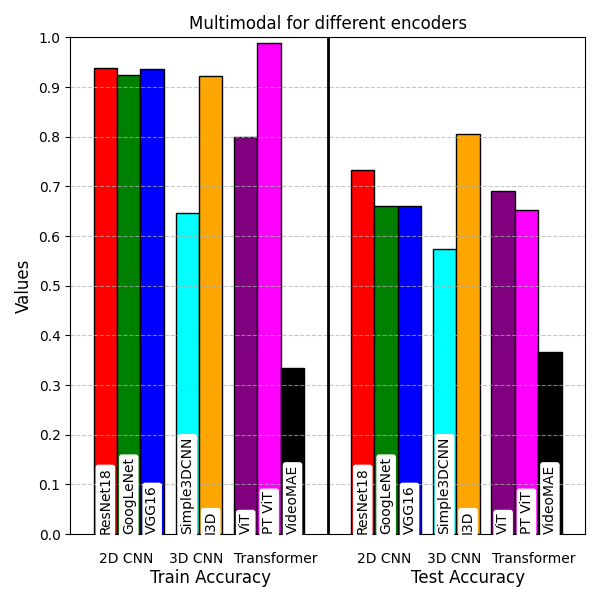
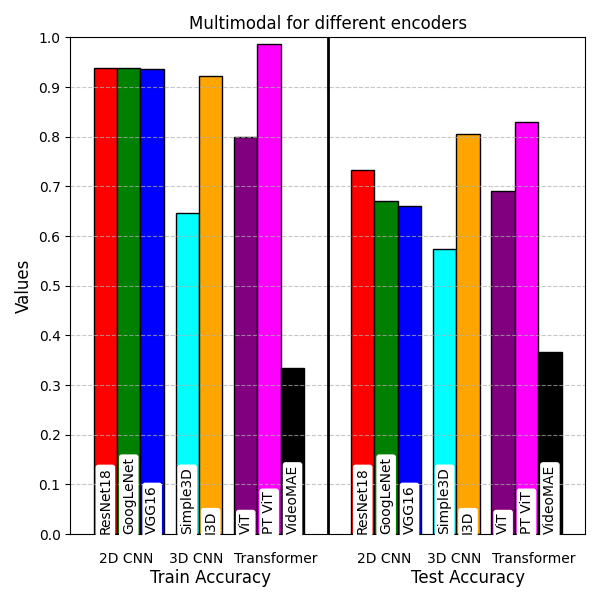
Update barplots

diff --git a/plots/barplot_unimodal.py b/plots/barplot_unimodal.py
@@ -9,7 +9,7 @@ group_labels = ['2D CNN', '3D CNN', 'Transformer']
 # Specific encoders for each type
 encoders = [
     ['ResNet18', 'GoogLeNet', 'VGG16'],
-    ['Simple3DCNN', 'I3D', 'Ablated I3D'],
+    ['Simple3D', 'Ablated Simple3D', 'I3D', 'Ablated I3D'],
     ['ViT', 'PT ViT', 'VideoMAE']
 ]
 
@@ -18,26 +18,28 @@ encoders = [
 # Audio
 data_audio = {
     'ResNet18': [0.9848, 0.6182],
-    'GoogLeNet': [0.907, 0.619],
+    'GoogLeNet': [0.9344, 0.6244],
     'VGG16': [0.9113, 0.5962],
-    'Simple3DCNN': [0.519, 0.514],
+    'Simple3D': [0.519, 0.514],
+    'Ablated Simple3D': [0, 0.354],
     'I3D': [0.623, 0.605],
     'Ablated I3D' : [0, 0.448],
     'ViT': [0.4710, 0.4401],
-    'PT ViT': [0.1664, 0.1644],
+    'PT ViT': [0.9846, 0.6231],
     'VideoMAE': [0.344 , 0.372]
 }
 
 # Vision
 data_vision = {
     'ResNet18': [0.9848, 0.6815],
-    'GoogLeNet': [0.866, 0.566],
+    'GoogLeNet': [0.9275, 0.6742],
     'VGG16': [0.9404, 0.6765],
-    'Simple3DCNN': [0.546, 0.462],
+    'Simple3D': [0.546, 0.462],
+    'Ablated Simple3D': [0, 0.298],
     'I3D': [0.878, 0.831],
     'Ablated I3D' : [0, 0.540],
     'ViT': [0.7612, 0.5536],
-    'PT ViT': [0.9962, 0.6749],
+    'PT ViT': [0.9857, 0.6895],
     'VideoMAE': [0.170, 0.188]
 }
 
@@ -50,7 +52,7 @@ else:
     exit(1)
 
 # colors = ['#FF9999', '#99CCFF', '#99FF99', '#FFCC99', '#FF99CC', '#CCFF99', '#99FFFF']  # Colors for each encoder
-colors = ['red', 'green', 'blue', 'cyan', 'orange', 'yellow', 'purple', 'magenta', 'black']  # Colors for each encoder
+colors = ['red', 'green', 'blue', 'cyan', 'teal', 'orange', 'yellow', 'purple', 'magenta', 'black']  # Colors for each encoder
 # hatches = ['/', '\\', 'o', 'x']  # Different hatches for each metric
 
 # Plotting
@@ -59,7 +61,7 @@ fig, ax = plt.subplots(figsize=(6, 6))
 metric_group_width = 0.8
 bar_width = metric_group_width / (len(encoders[0]) + len(encoders[1]) + len(encoders[2]) + 1)
 x = np.arange(len(metrics_labels)) * (len(encoders[0]) + len(encoders[1]) + len(encoders[2]) + 3) * bar_width
-alpha = {0: 0.6, 1: 0.45, 2: 0.45}
+alpha = {0: 0.6, 1: 0.25, 2: 0.65}
 # Generate the bars
 for i, metric in enumerate(metrics_labels):
     offset = 0  # reset offset for each metric group
@@ -100,7 +102,7 @@ ax.grid(axis='y', linestyle='--', alpha=0.7, which='both')
 
 # Add separator lines between each metric group
 for i in range(len(metrics_labels) - 1):
-    ax.axvline(x[i] + (len(encoders[2]) + 7.5) * bar_width, color='black', linestyle='-', linewidth=2)
+    ax.axvline(x[i] + (len(encoders[2]) + 8.5) * bar_width, color='black', linestyle='-', linewidth=2)
 
 
 # ax.axhline(1.0, color='red', linestyle='-', linewidth=2)

diff --git a/plots/barplot_multimodal.py b/plots/barplot_multimodal.py
@@ -9,7 +9,7 @@ group_labels = ['2D CNN', '3D CNN', 'Transformer']
 encoders = [
     ['ResNet18', 'GoogLeNet', 'VGG16'],
     # ['Simple3DCNN', 'I3D', 'Ablated I3D'],
-    ['Simple3DCNN', 'I3D'],
+    ['Simple3D', 'I3D'],
     ['ViT', 'PT ViT', 'VideoMAE']
 ]
 
@@ -42,13 +42,12 @@ encoders = [
 # Multimodal
 data = {
     'ResNet18': [0.9379, 0.7326],
-    'GoogLeNet': [0.925, 0.661],
+    'GoogLeNet': [0.9390, 0.6711],
     'VGG16': [0.9356, 0.6608],
-    'Simple3DCNN': [0.647, 0.573],
+    'Simple3D': [0.647, 0.573],
     'I3D': [0.923, 0.806],
-    # 'Ablated I3D' : [0, 0.540],
     'ViT': [0.8002, 0.6909],
-    'PT ViT': [0.9885, 0.6516],
+    'PT ViT': [0.9867, 0.8290],
     'VideoMAE': [0.334, 0.366]
 }
 
